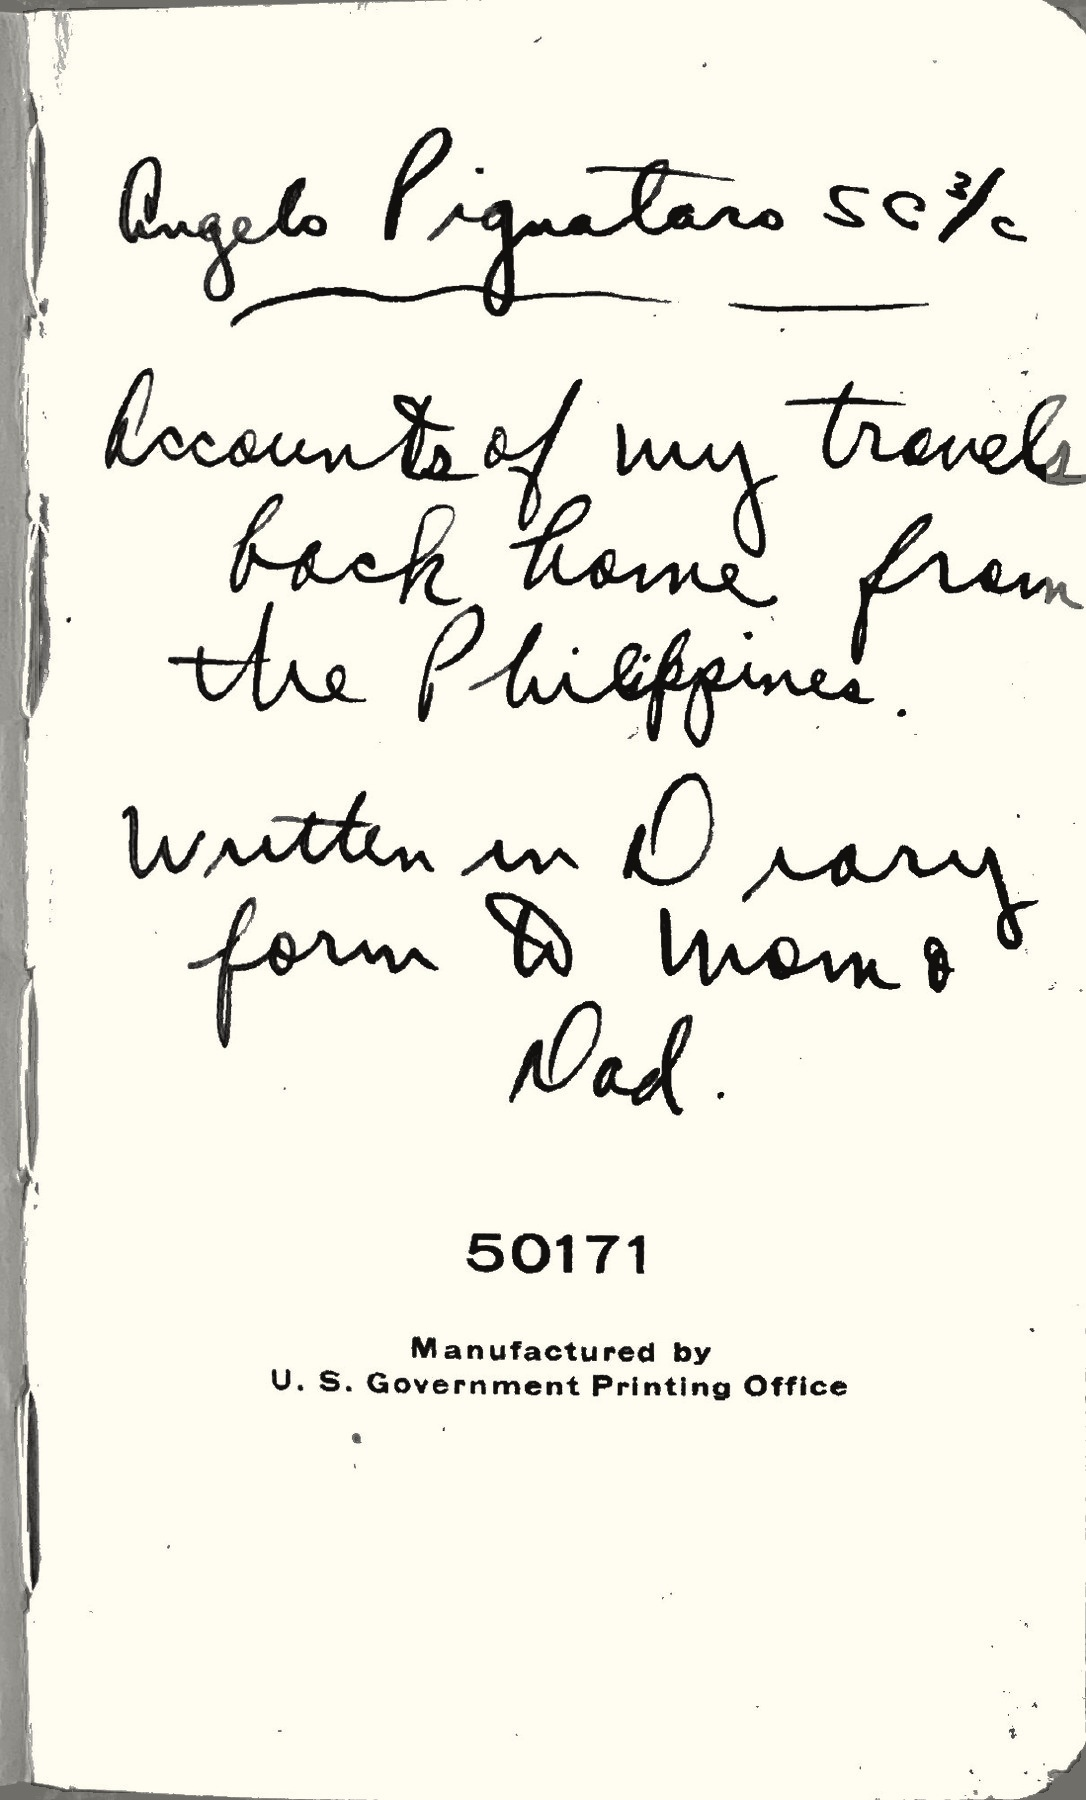
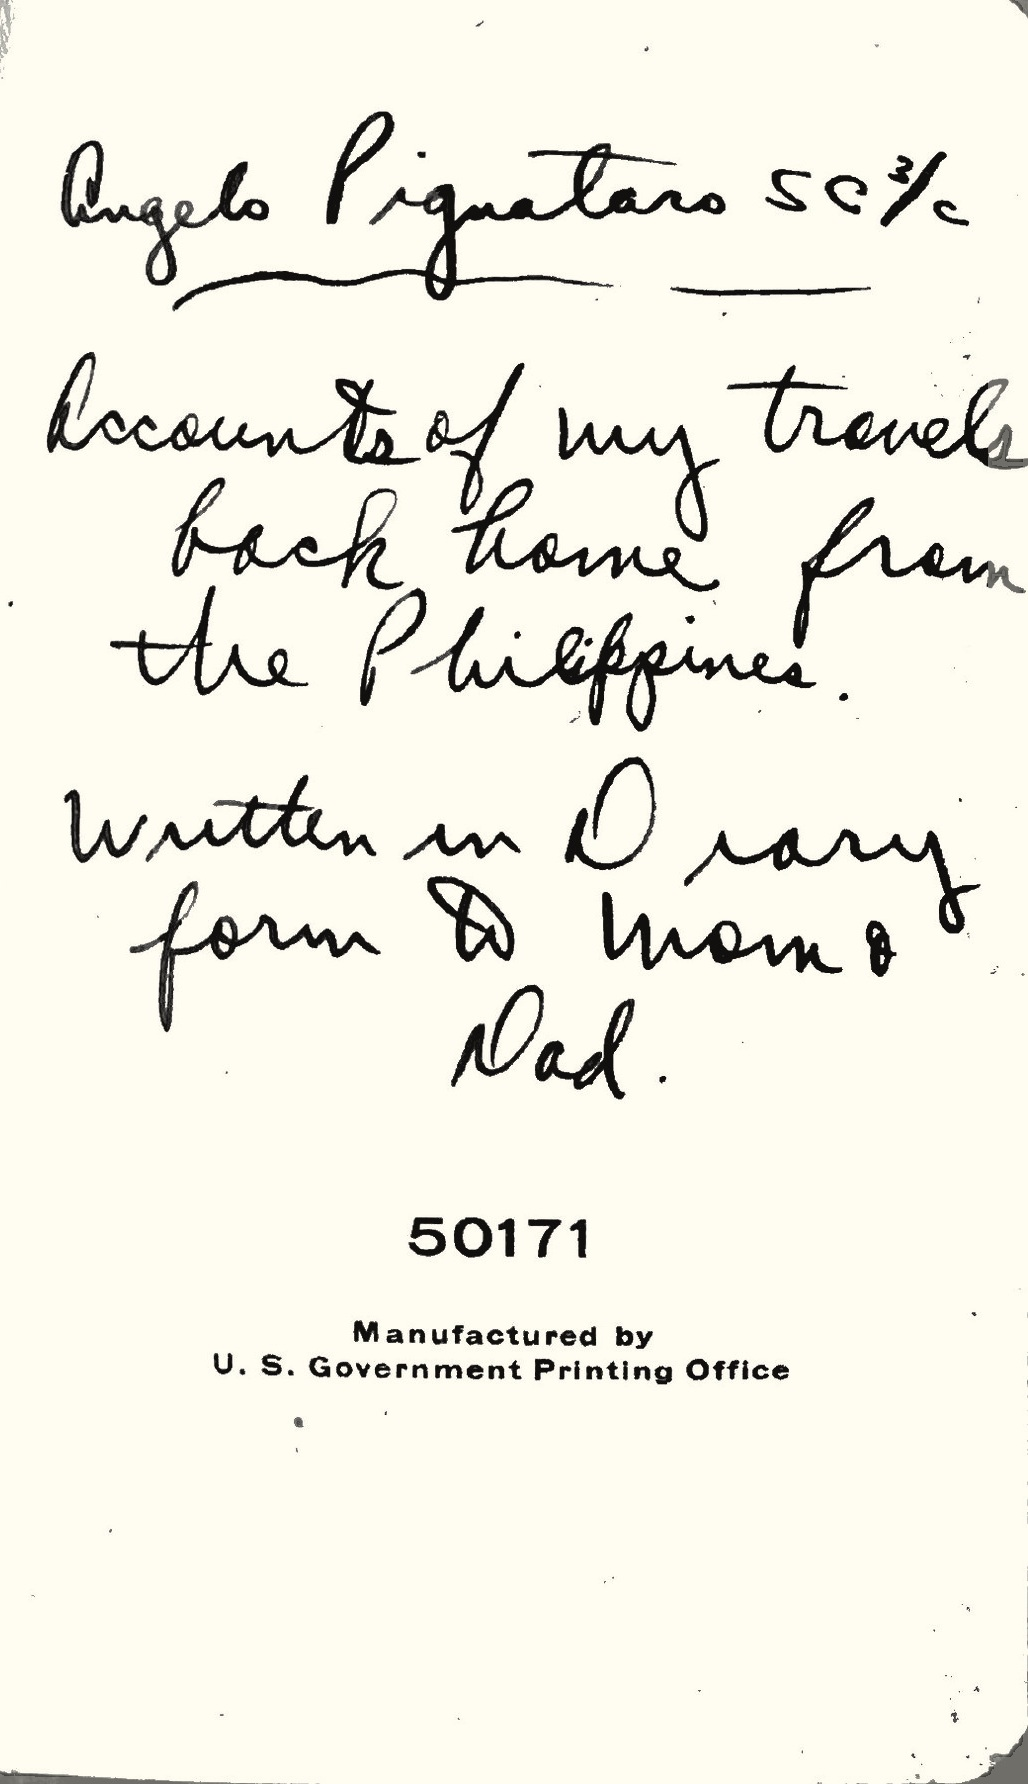
Crop dedication and page ten handwritten images

diff --git a/docs/index.html b/docs/index.html
@@ -441,7 +441,7 @@
     <section class="column handwrittenColumn" aria-label="Dedication handwritten page">
       
       <figure>
-        <img src="assets/pages_shadow_midpoint/page_01.jpg" alt="Handwritten diary Page 01" width="1086" height="1800" loading="lazy">
+        <img src="assets/pages_shadow_midpoint/page_01.jpg" alt="Handwritten diary Page 01" width="1028" height="1784" loading="lazy">
         
       </figure>
     </section>
@@ -705,7 +705,7 @@
     <section class="column handwrittenColumn" aria-label="Page 10 handwritten page">
       
       <figure>
-        <img src="assets/pages_shadow_midpoint/page_11.jpg" alt="Handwritten diary Page 11" width="860" height="1800" loading="lazy">
+        <img src="assets/pages_shadow_midpoint/page_11.jpg" alt="Handwritten diary Page 11" width="825" height="1800" loading="lazy">
         
       </figure>
     </section>

diff --git a/scripts/clean-handwritten-shadows.py b/scripts/clean-handwritten-shadows.py
@@ -38,12 +38,17 @@ SPECIAL_RECTS = {
 }
 
 RIGHT_CROP_WIDTHS = {
-    "page_11.jpg": 860,
+    "page_11.jpg": 825,
     "page_51.jpg": 1002,
 }
 
 LEFT_CROP_WIDTHS = {
+    "page_01.jpg": 58,
     "page_02.jpg": 22,
+}
+
+TOP_CROP_HEIGHTS = {
+    "page_01.jpg": 16,
 }
 
 PROTECTED_SHADOW_RECTS = {
@@ -250,6 +255,9 @@ def main() -> None:
         left_crop = LEFT_CROP_WIDTHS.get(source_file.name)
         if left_crop:
             cleaned = cleaned.crop((left_crop, 0, cleaned.width, cleaned.height))
+        top_crop = TOP_CROP_HEIGHTS.get(source_file.name)
+        if top_crop:
+            cleaned = cleaned.crop((0, top_crop, cleaned.width, cleaned.height))
         cleaned_array = np.asarray(cleaned)
         for rect in PROTECTED_SHADOW_RECTS.get(source_file.name, []):
             cleaned_array = protected_shadow_fill(cleaned_array, rect)
